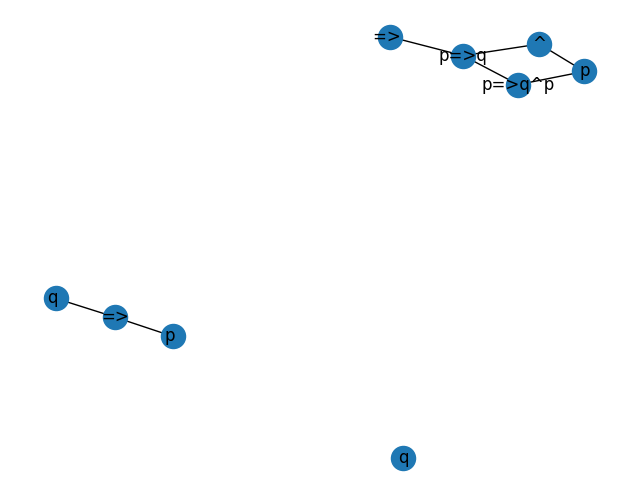
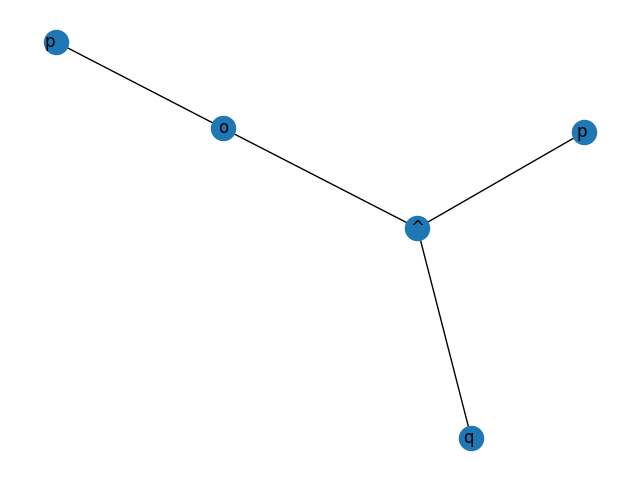
feat: evaluando sin repeticion de simbolos

diff --git a/lexer.py b/lexer.py
@@ -3,8 +3,22 @@ import ply.yacc as yacc
 import networkx as nx
 import matplotlib.pyplot as plt
 
+contador = {
+    'p':0,
+    'q':0,
+    'r':0,
+    's':0,
+    't':0,
+    'u':0,
+    'v':0,
+    'w':0,
+    'x':0,
+    'y':0,
+    'z':0,
+}
 
-
+contadorSymbols = {}
+operators = ['o','^','~','=>','<=>']
 tokens = (
     'LETTERS',
     'NEGATIVE',
@@ -48,7 +62,7 @@ precedence = (
 
 def p_neg3( p ) :
     'expr : LETTERS'
-    g.add_node(p[1])
+    #g.add_node(p[1])
     p[0] = p[1]
 
 def p_neg2( p ) :
@@ -58,23 +72,70 @@ def p_neg2( p ) :
 
 def p_par(p):
     'expr : LPAREN expr RPAREN'
-    g.add_node(p[2])
+    #g.add_node(p[2])
     p[0] = p[2]
 
 def p_andexp(p):
     'expr : expr AND expr'
 
-    g.add_edge(p[2],p[1])
-    g.add_edge(p[2],p[3])
-    g.add_edge(p[3],p[1]+p[2]+p[3])
-    g.add_edge(p[1],p[1]+p[2]+p[3])
+    try:
+        if p[1][1] in operators:
+            print("primer IF AND")
+            if p[3] in contador:
+                contador[p[3]] += 1
+                g.add_edge(p[2],p[3] + (contador[p[3]] * ' '))
+            print(p[3] in contador)
+            g.add_edge(p[2],p[1][1])
+
+    except:
+        try:
+            if p[3][1] in operators:
+
+                print("segundo IF AND")
+
+                contador[p[1]] += 1
+                print(p[3] in contador)
+                g.add_edge(p[2],p[3][1])
+                g.add_edge(p[2],p[1] + (contador[p[1]] * ' '))
+        except:
+                print(contador,"r IF AND")
+
+                contador[p[1]] += 1
+                print(contador,'ultimo except and')
+                g.add_edge(p[2],p[1] + (contador[p[1]] * ' '))
+                contador[p[3]] += 1
+                print(contador,'ultimo except and')
+                g.add_edge(p[2],p[3] + (contador[p[3]] * ' '))
+
     p[0] = p[1]+p[2]+p[3]
 
 def p_orexp(p):
     'expr : expr OR expr'
 
-    g.add_edge(p[2],p[1])
-    g.add_edge(p[2],p[3])
+    #g.add_edge(p[2],p[1])
+
+
+    try:
+        if p[1][1] in operators:
+            print(p[3] in contador,'primer if or')
+            contador[p[3]] += 1
+            print(contador, "primer if OR")
+            new = p[3] + (contador[p[3]] * ' ')
+            g.add_edge(p[2],p[1][1])
+            g.add_edge(p[2], new)
+            print(contador[p[3]])
+    except:
+        try:
+            if p[3][1] in operators:
+                print("segundo IF OR")
+                print(p[3] in contador)
+                g.add_edge(p[2],p[3][1])
+                g.add_edge(p[2],p[1] + (2 * ' '))
+        except:
+                print("ultimo except OR")
+                g.add_edge(p[2],p[1]+' ')
+                g.add_edge(p[2],p[3])
+
     p[0] = p[1]+p[2]+p[3]
     p[0] = p[1]+p[2]+p[3]
 
@@ -104,7 +165,8 @@ def p_comma1(p):
 
 def p_const(p):
     'expr : CONST'
-    g.add_node(p[1])
+    #g.add_node(p[1])
+    print(contador,'const')
     p[0] = p[1]
 
 def p_error( p ):
@@ -116,7 +178,7 @@ parser = yacc.yacc()
 global g
 g = nx.Graph()
 
-res = parser.parse("((p=>q)^p)")
+res = parser.parse("(p^q)op")
 print(list(g.nodes()))
 
 
